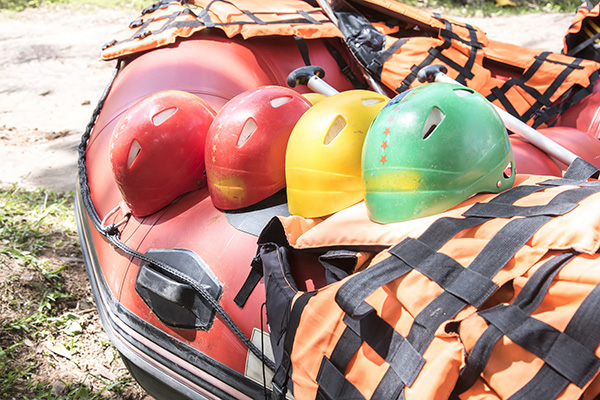
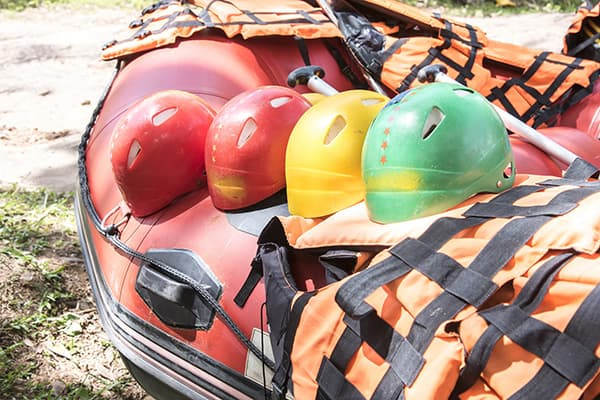
commit

diff --git a/wwr/styles/rafting.css b/wwr/styles/rafting.css
@@ -95,6 +95,7 @@ nav a {
 
 .history h2 {
     background-color: var(--accent2-color);
+    color: black;
     text-align: center;
     margin-bottom: 20px;
 }
@@ -120,6 +121,7 @@ nav a {
 
 .adventure h2 {
     background-color: var(--accent2-color);
+    color: black;
 }
 
 .adventure-grid {
